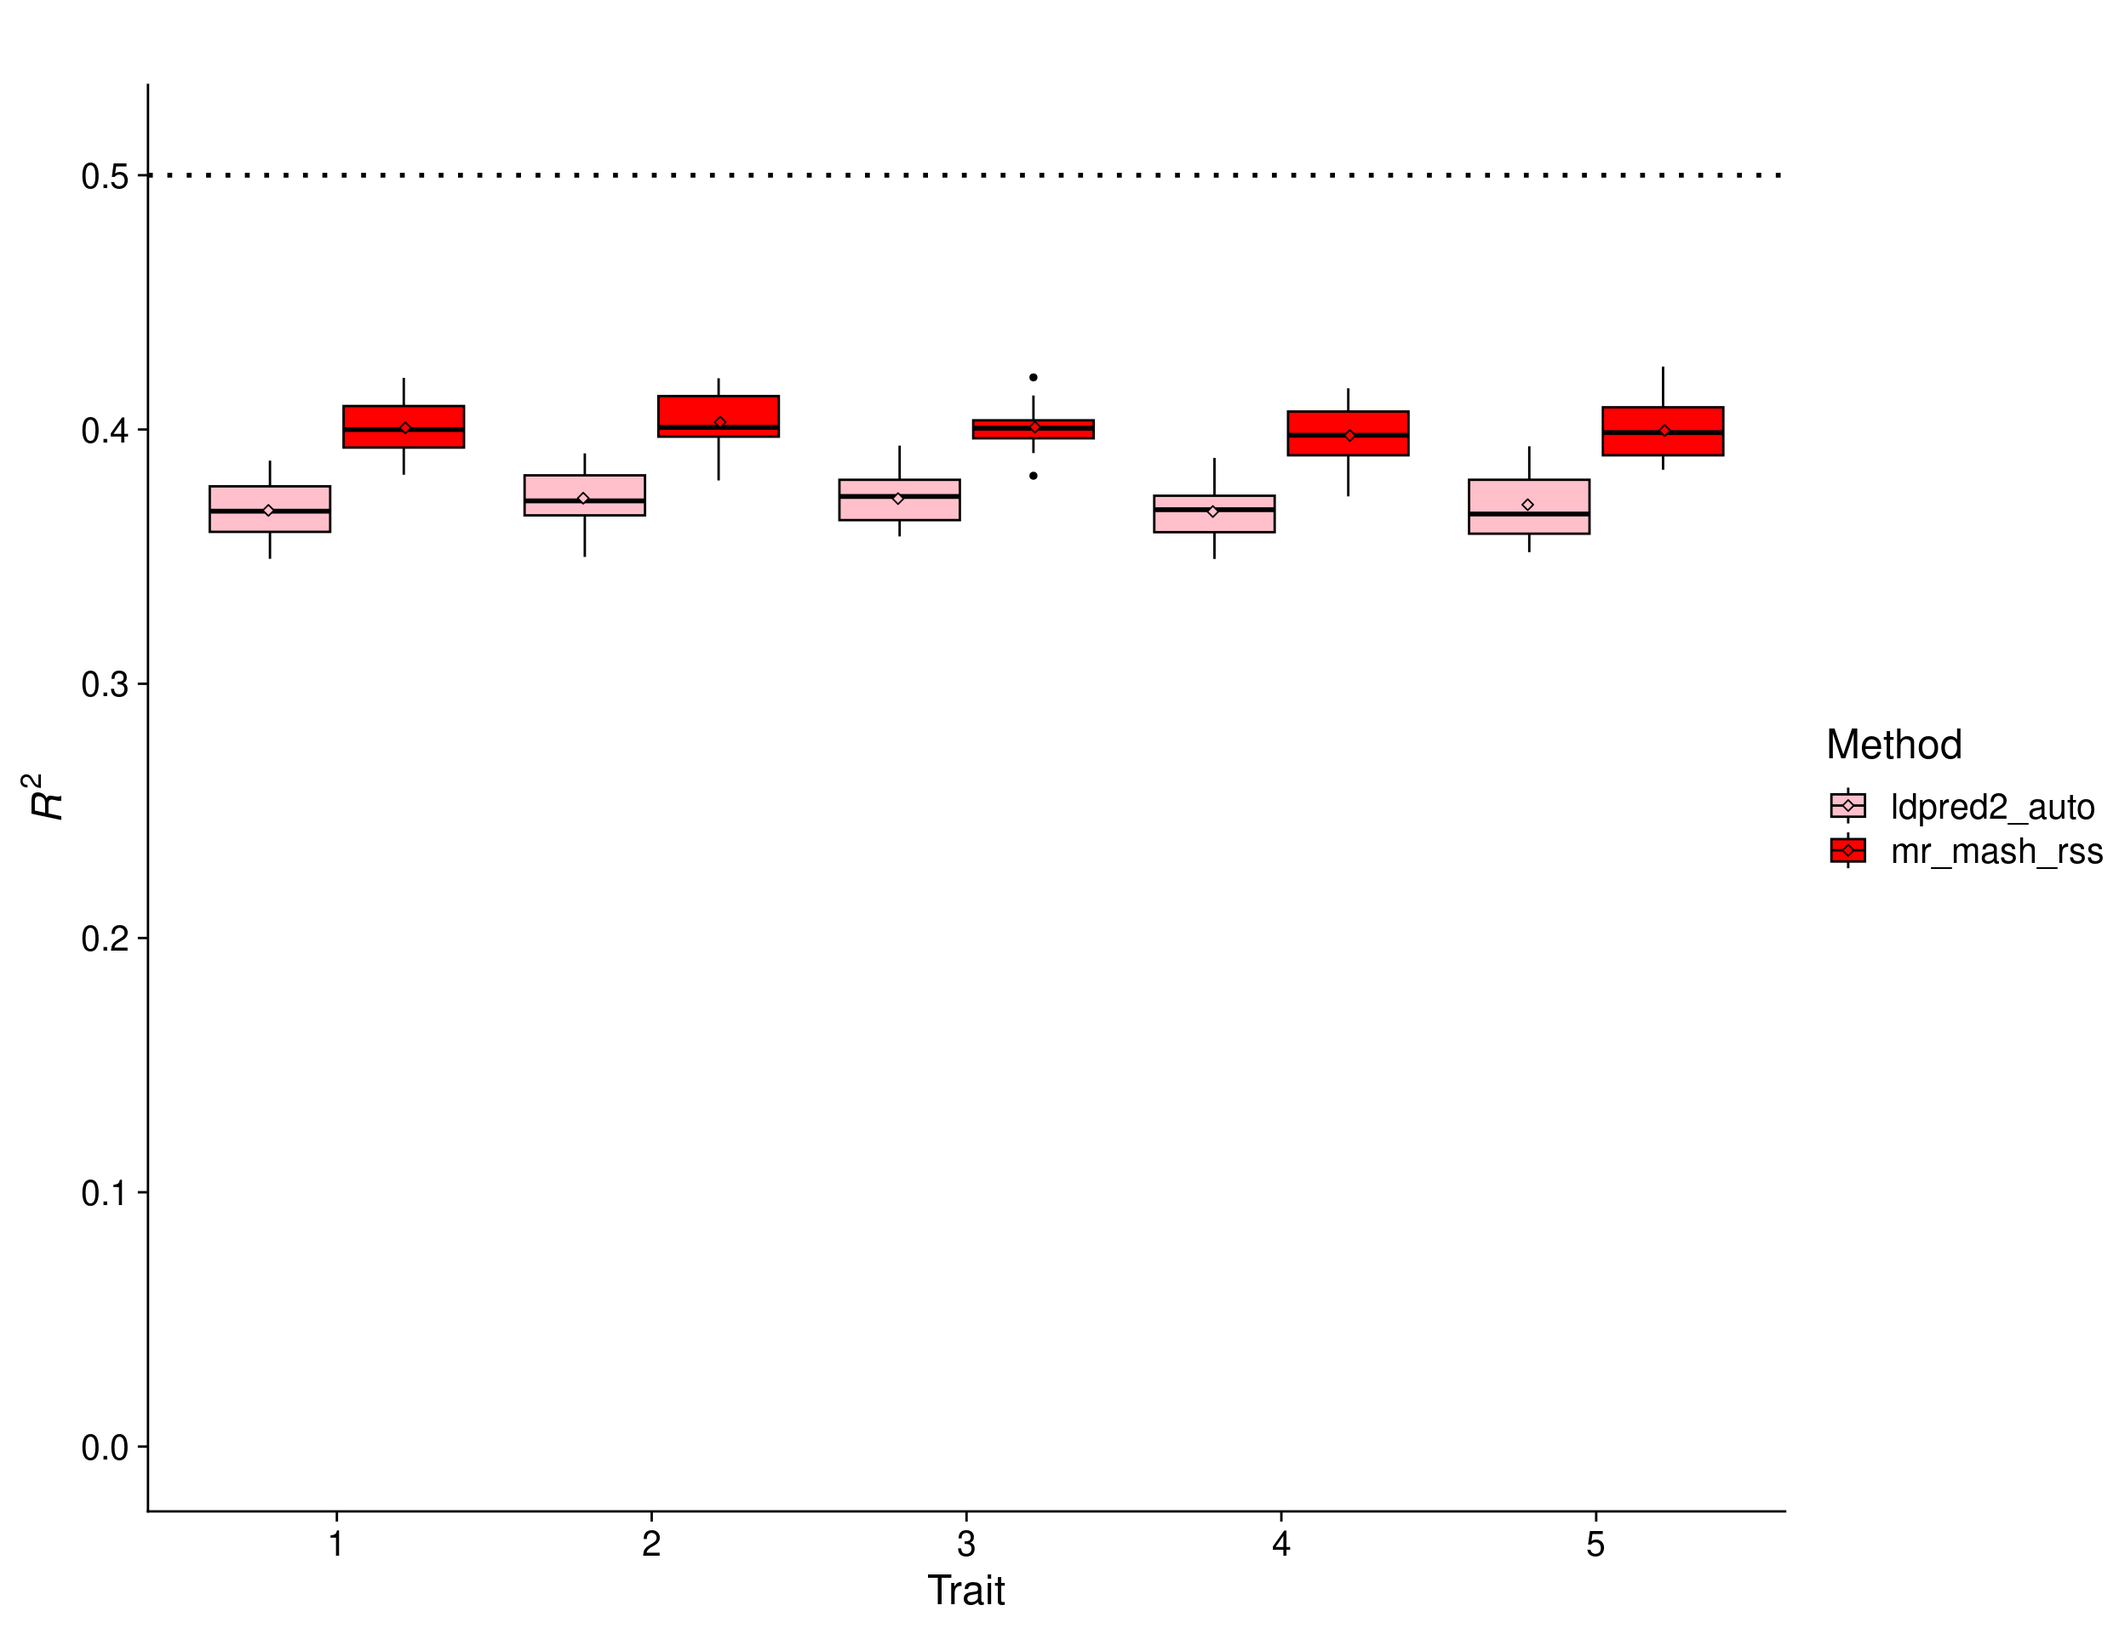
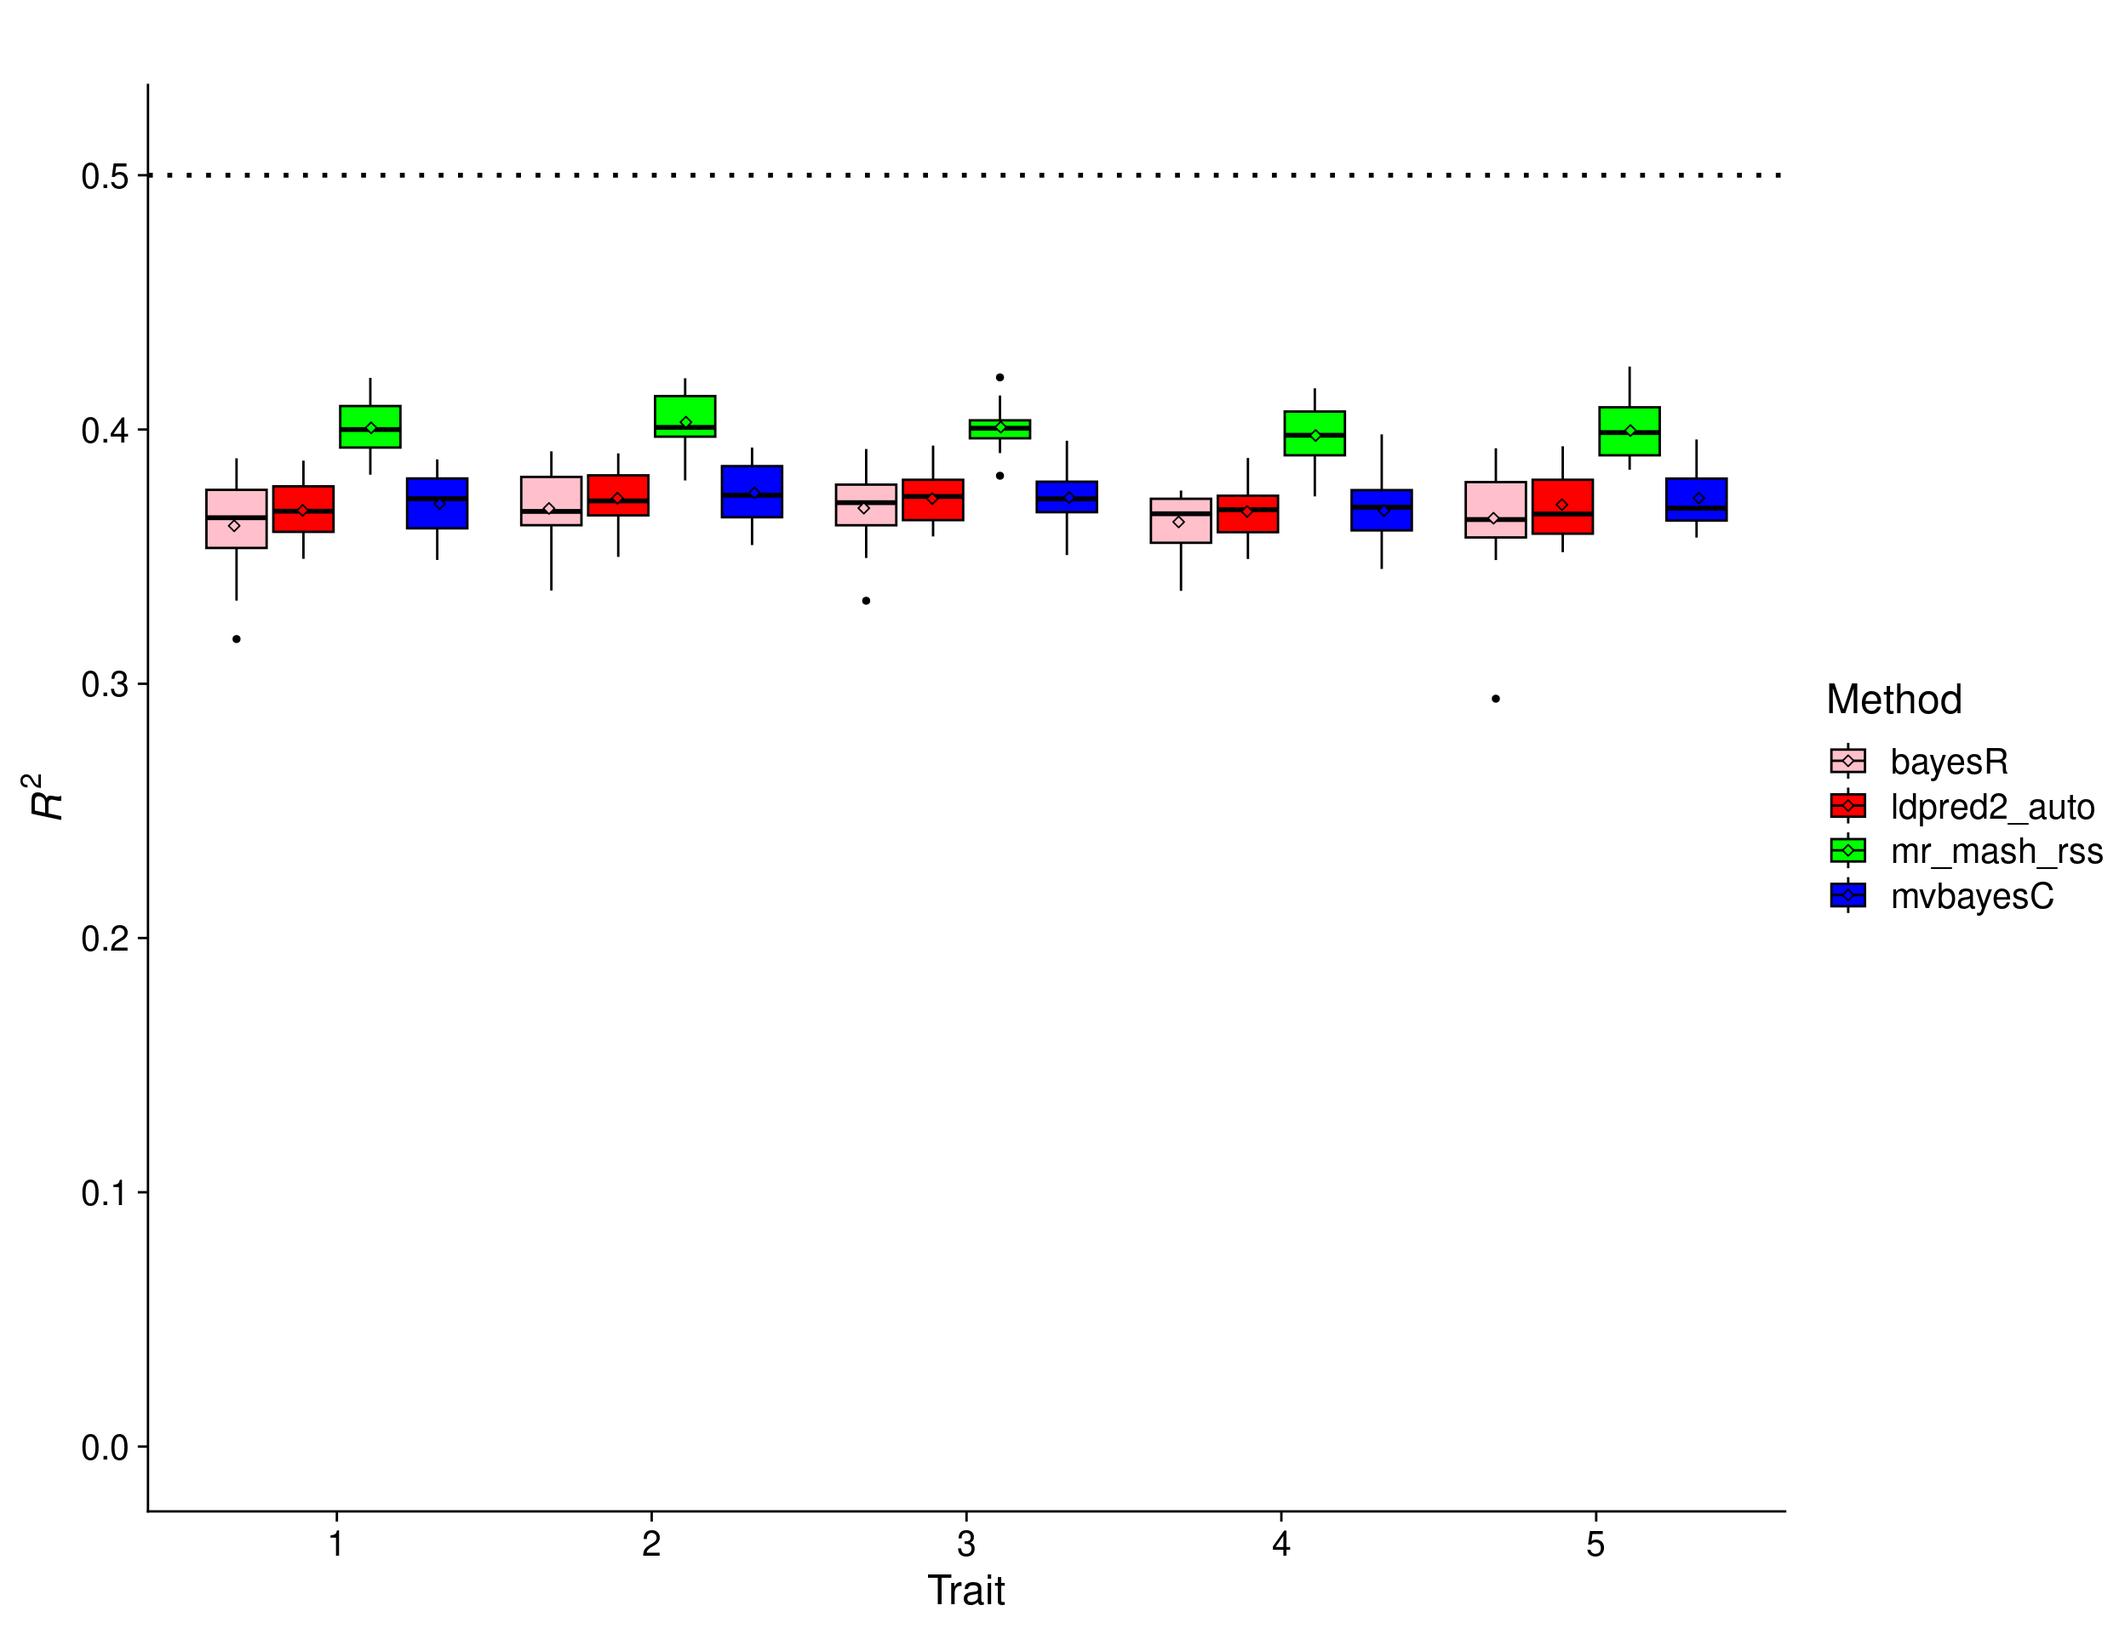
Build site.

diff --git a/docs/ukb_sim_results.html b/docs/ukb_sim_results.html
@@ -11,7 +11,7 @@
 
 <meta name="author" content="Fabio Morgante &amp; Deborah Kunkel" />
 
-<meta name="date" content="2023-11-02" />
+<meta name="date" content="2023-11-07" />
 
 <title>Simulations with UK Biobank genotypes and different effect structure across traits</title>
 
@@ -374,7 +374,7 @@ div.tocify {
 <h1 class="title toc-ignore">Simulations with UK Biobank genotypes and
 different effect structure across traits</h1>
 <h4 class="author">Fabio Morgante &amp; Deborah Kunkel</h4>
-<h4 class="date">November 02, 2023</h4>
+<h4 class="date">November 07, 2023</h4>
 
 </div>
 
@@ -403,7 +403,7 @@ class="glyphicon glyphicon-ok text-success" aria-hidden="true"></span>
 <div class="tab-content">
 <div id="summary" class="tab-pane fade in active">
 <p>
-<strong>Last updated:</strong> 2023-11-02
+<strong>Last updated:</strong> 2023-11-07
 </p>
 <p>
 <strong>Checks:</strong> <span
@@ -534,15 +534,15 @@ project makes it easier to run your code on other machines.</p>
 <div class="panel panel-default">
 <div class="panel-heading">
 <p class="panel-title">
-<a data-toggle="collapse" data-parent="#workflowr-checks" href="#strongRepositoryversionstrongahrefhttpsgithubcommorgantelabmrmashrssanalysistree61b27b107ed8cf53e91dcadd435f31d4926c826ctargetblank61b27b1a">
+<a data-toggle="collapse" data-parent="#workflowr-checks" href="#strongRepositoryversionstrongahrefhttpsgithubcommorgantelabmrmashrssanalysistree10b51bd8130f4a3188919c1590f031d4bf880d6atargetblank10b51bda">
 <span class="glyphicon glyphicon-ok text-success"
 aria-hidden="true"></span> <strong>Repository version:</strong>
-<a href="https://github.com/morgantelab/mr_mash_rss_analysis/tree/61b27b107ed8cf53e91dcadd435f31d4926c826c" target="_blank">61b27b1</a>
+<a href="https://github.com/morgantelab/mr_mash_rss_analysis/tree/10b51bd8130f4a3188919c1590f031d4bf880d6a" target="_blank">10b51bd</a>
 </a>
 </p>
 </div>
 <div
[2 lines of base64/hex data omitted]
 class="panel-collapse collapse">
 <div class="panel-body">
 <p>
@@ -552,7 +552,7 @@ reproducibility.
 </p>
 <p>
 The results in this page were generated with repository version
-<a href="https://github.com/morgantelab/mr_mash_rss_analysis/tree/61b27b107ed8cf53e91dcadd435f31d4926c826c" target="_blank">61b27b1</a>.
+<a href="https://github.com/morgantelab/mr_mash_rss_analysis/tree/10b51bd8130f4a3188919c1590f031d4bf880d6a" target="_blank">10b51bd</a>.
 See the <em>Past versions</em> tab to see a history of the changes made
 to the R Markdown and HTML files.
 </p>
@@ -579,20 +579,22 @@ Untracked files:
     Untracked:  code/compute_sumstats_test_bc_ukb.R
     Untracked:  code/fit_kriging_rss_ukb.R
     Untracked:  code/fit_mrmashrss_test_ukb.R
+    Untracked:  code/fit_qgg_smvbayes_ukb.R
     Untracked:  code/merge_sumstats_all_chr_ukb.R
     Untracked:  code/split_effects_by_chr_imp_ukb.R
     Untracked:  scripts/11_run_fit_mrmashrss_by_chr_V_all_chr_bc_ukb.sbatch
     Untracked:  scripts/11_run_fit_mrmashrss_sparse_LD_mvsusie_paper_prior_by_chr_bc_ukb.sbatch
-    Untracked:  scripts/11_run_fit_mrmashrss_test_by_chr_V_all_chr_bc_ukb.sbatch
     Untracked:  scripts/12_run_compute_pred_accuracy_mrmashrss_sparse_LD_mvsusie_paper_prior_bc_ukb.sbatch
-    Untracked:  scripts/12_run_fit_mrmashrss_sparse_LD_V_all_chr_init_by_chr_bc_ukb.sbatch
     Untracked:  scripts/3_run_compute_sumstats_by_chr_and_fold_test_bc_ukb.sbatch
     Untracked:  scripts/run_adjust_LD_test.sbatch
     Untracked:  scripts/run_fit_kriging_rss_by_chr_and_trait_bc_ukb.sbatch
 
 Unstaged changes:
     Modified:   analysis/ukb_bc_results.Rmd
-    Modified:   code/compute_prediction_accuracy_bc_ukb.R
+    Modified:   code/compute_prediction_accuracy_ukb.R
+    Modified:   code/fit_qgg_sbayes_ukb.R
+    Modified:   ukb_sim_equal_effects_indep_resid.yaml
+    Modified:   ukb_sim_snakefile
     Modified:   ukb_sim_snakemake_submitter.sh
 
 </code></pre>
@@ -639,6 +641,40 @@ Message
 </tr>
 </thead>
 <tbody>
+<tr>
+<td>
+Rmd
+</td>
+<td>
+<a href="https://github.com/morgantelab/mr_mash_rss_analysis/blob/10b51bd8130f4a3188919c1590f031d4bf880d6a/analysis/ukb_sim_results.Rmd" target="_blank">10b51bd</a>
+</td>
+<td>
+fmorgante
+</td>
+<td>
+2023-11-07
+</td>
+<td>
+Add bayesR and mvbayesC results for equal effects scenario
+</td>
+</tr>
+<tr>
+<td>
+html
+</td>
+<td>
+<a href="https://rawcdn.githack.com/morgantelab/mr_mash_rss_analysis/5e2df385e1d527c3db2f99e4481d5f8806469f24/docs/ukb_sim_results.html" target="_blank">5e2df38</a>
+</td>
+<td>
+fmorgante
+</td>
+<td>
+2023-11-02
+</td>
+<td>
+Build site.
+</td>
+</tr>
 <tr>
 <td>
 Rmd
@@ -1651,7 +1687,7 @@ per-trait variance of 1 and a correlation across traits of 1. This
 implies that the effects of the causal variants are equal across
 responses.</p>
 <pre class="r"><code>scenarioz &lt;- &quot;equal_effects_indep_resid&quot;
-methodz &lt;- c(&quot;mr_mash_rss&quot;, &quot;ldpred2_auto&quot;)#, &quot;ldpred2_auto_gwide&quot;, &quot;bayesR&quot;)
+methodz &lt;- c(&quot;mr_mash_rss&quot;, &quot;mvbayesC&quot;, &quot;ldpred2_auto&quot;, &quot;bayesR&quot;)
 
 i &lt;- 0
 
@@ -1851,7 +1887,7 @@ p_mostly_null &lt;- ggplot(res, aes(x = trait, y = score, fill = method)) +
                position = position_dodge2(width = 0.87,   
                                           preserve = &quot;single&quot;)) +
   ylim(0.0, 0.51) +
-  scale_fill_manual(values = c(&quot;pink&quot;, &quot;red&quot;, &quot;blue&quot;)) +
+  scale_fill_manual(values = c(&quot;pink&quot;, &quot;red&quot;, &quot;green&quot;, &quot;blue&quot;)) +
   labs(x = &quot;Trait&quot;, y = expression(italic(R)^2), fill=&quot;Method&quot;, title=&quot;&quot;) +
   geom_hline(yintercept=0.5, linetype=&quot;dotted&quot;, linewidth=1, color = &quot;black&quot;) +
   theme_cowplot(font_size = 18)
@@ -2021,7 +2057,7 @@ p_blocks_shared &lt;- ggplot(res, aes(x = trait, y = score, fill = method)) +
                position = position_dodge2(width = 0.87,   
                                           preserve = &quot;single&quot;)) +
   ylim(0, 0.51) +
-  scale_fill_manual(values = c(&quot;pink&quot;, &quot;red&quot;, &quot;blue&quot;)) +
+  scale_fill_manual(values = c(&quot;pink&quot;, &quot;red&quot;, &quot;green&quot;, &quot;blue&quot;)) +
   labs(x = &quot;Trait&quot;, y = expression(italic(R)^2), fill=&quot;Method&quot;, title=&quot;&quot;) +
   geom_hline(yintercept=0.5, linetype=&quot;dotted&quot;, linewidth=1, color = &quot;black&quot;) +
   geom_hline(yintercept=0.3, linetype=&quot;dashed&quot;, linewidth=1, color = &quot;black&quot;) +
@@ -2210,7 +2246,7 @@ p_methods_shared_lowpve &lt;- ggplot(res, aes(x = trait, y = score, fill = metho
                position = position_dodge2(width = 0.87,   
                                           preserve = &quot;single&quot;)) +
   ylim(0, 0.2) +
-  scale_fill_manual(values = c(&quot;pink&quot;, &quot;red&quot;, &quot;blue&quot;)) +
+  scale_fill_manual(values = c(&quot;pink&quot;, &quot;red&quot;, &quot;green&quot;, &quot;blue&quot;)) +
   labs(x = &quot;Trait&quot;, y = expression(italic(R)^2), fill=&quot;Method&quot;, title=&quot;&quot;) +
   geom_hline(yintercept=0.2, linetype=&quot;dotted&quot;, linewidth=1, color = &quot;black&quot;) +
   theme_cowplot(font_size = 18)
@@ -2239,6 +2275,17 @@ Date
 </tr>
 </thead>
 <tbody>
+<tr>
+<td>
+<a href="https://github.com/morgantelab/mr_mash_rss_analysis/blob/5e2df385e1d527c3db2f99e4481d5f8806469f24/docs/figure/ukb_sim_results.Rmd/equal effects low pve-1.png" target="_blank">5e2df38</a>
+</td>
+<td>
+fmorgante
+</td>
+<td>
+2023-11-02
+</td>
+</tr>
 <tr>
 <td>
 <a href="https://github.com/morgantelab/mr_mash_rss_analysis/blob/e6023d5ca150e0f96edadb919a6187cd1c4c8026/docs/figure/ukb_sim_results.Rmd/equal effects low pve-1.png" target="_blank">e6023d5</a>
@@ -2343,7 +2390,7 @@ p_methods_shared_lowpve &lt;- ggplot(res, aes(x = trait, y = score, fill = metho
                position = position_dodge2(width = 0.87,   
                                           preserve = &quot;single&quot;)) +
   ylim(0, 0.5) +
-  scale_fill_manual(values = c(&quot;pink&quot;, &quot;red&quot;, &quot;blue&quot;)) +
+  scale_fill_manual(values = c(&quot;pink&quot;, &quot;red&quot;, &quot;green&quot;, &quot;blue&quot;)) +
   labs(x = &quot;Trait&quot;, y = expression(italic(R)^2), fill=&quot;Method&quot;, title=&quot;&quot;) +
   geom_hline(yintercept=0.5, linetype=&quot;dotted&quot;, linewidth=1, color = &quot;black&quot;) +
   theme_cowplot(font_size = 18)
@@ -2372,6 +2419,17 @@ Date
 </tr>
 </thead>
 <tbody>
+<tr>
+<td>
+<a href="https://github.com/morgantelab/mr_mash_rss_analysis/blob/5e2df385e1d527c3db2f99e4481d5f8806469f24/docs/figure/ukb_sim_results.Rmd/equal effects poly filt-1.png" target="_blank">5e2df38</a>
+</td>
+<td>
+fmorgante
+</td>
+<td>
+2023-11-02
+</td>
+</tr>
 <tr>
 <td>
 <a href="https://github.com/morgantelab/mr_mash_rss_analysis/blob/70e6d4a8ceb31f3d5b874cd83d7d9e93c21e425d/docs/figure/ukb_sim_results.Rmd/equal effects poly filt-1.png" target="_blank">70e6d4a</a>
@@ -2455,7 +2513,7 @@ p_methods_shared_10traits &lt;- ggplot(res, aes(x = trait, y = score, fill = met
                position = position_dodge2(width = 0.87,   
                                           preserve = &quot;single&quot;)) +
   ylim(0, 0.51) +
-  scale_fill_manual(values = c(&quot;pink&quot;, &quot;red&quot;, &quot;blue&quot;)) +
+  scale_fill_manual(values = c(&quot;pink&quot;, &quot;red&quot;, &quot;green&quot;, &quot;blue&quot;)) +
   labs(x = &quot;Trait&quot;, y = expression(italic(R)^2), fill=&quot;Method&quot;, title=&quot;&quot;) +
   geom_hline(yintercept=0.5, linetype=&quot;dotted&quot;, linewidth=1, color = &quot;black&quot;) +
   theme_cowplot(font_size = 18)
@@ -2484,6 +2542,17 @@ Date
 </tr>
 </thead>
 <tbody>
+<tr>
+<td>
+<a href="https://github.com/morgantelab/mr_mash_rss_analysis/blob/5e2df385e1d527c3db2f99e4481d5f8806469f24/docs/figure/ukb_sim_results.Rmd/equal effects 10 traits-1.png" target="_blank">5e2df38</a>
+</td>
+<td>
+fmorgante
+</td>
+<td>
+2023-11-02
+</td>
+</tr>
 <tr>
 <td>
 <a href="https://github.com/morgantelab/mr_mash_rss_analysis/blob/d850539d7dd55aa0b81c7e271d5b1842e50f2f2c/docs/figure/ukb_sim_results.Rmd/equal effects 10 traits-1.png" target="_blank">d850539</a>

diff --git a/docs/index.html b/docs/index.html
@@ -322,7 +322,7 @@ class="glyphicon glyphicon-ok text-success" aria-hidden="true"></span>
 <div class="tab-content">
 <div id="summary" class="tab-pane fade in active">
 <p>
-<strong>Last updated:</strong> 2023-10-26
+<strong>Last updated:</strong> 2023-11-07
 </p>
 <p>
 <strong>Checks:</strong> <span
@@ -369,15 +369,15 @@ results.</p>
 <div class="panel panel-default">
 <div class="panel-heading">
 <p class="panel-title">
-<a data-toggle="collapse" data-parent="#workflowr-checks" href="#strongRepositoryversionstrongahrefhttpsgithubcommorgantelabmrmashrssanalysistreefebf669ca5f7d522297abf9c8dec9f75f7ee300atargetblankfebf669a">
+<a data-toggle="collapse" data-parent="#workflowr-checks" href="#strongRepositoryversionstrongahrefhttpsgithubcommorgantelabmrmashrssanalysistree10b51bd8130f4a3188919c1590f031d4bf880d6atargetblank10b51bda">
 <span class="glyphicon glyphicon-ok text-success"
 aria-hidden="true"></span> <strong>Repository version:</strong>
-<a href="https://github.com/morgantelab/mr_mash_rss_analysis/tree/febf669ca5f7d522297abf9c8dec9f75f7ee300a" target="_blank">febf669</a>
+<a href="https://github.com/morgantelab/mr_mash_rss_analysis/tree/10b51bd8130f4a3188919c1590f031d4bf880d6a" target="_blank">10b51bd</a>
 </a>
 </p>
 </div>
 <div
[2 lines of base64/hex data omitted]
 class="panel-collapse collapse">
 <div class="panel-body">
 <p>
@@ -387,7 +387,7 @@ reproducibility.
 </p>
 <p>
 The results in this page were generated with repository version
-<a href="https://github.com/morgantelab/mr_mash_rss_analysis/tree/febf669ca5f7d522297abf9c8dec9f75f7ee300a" target="_blank">febf669</a>.
+<a href="https://github.com/morgantelab/mr_mash_rss_analysis/tree/10b51bd8130f4a3188919c1590f031d4bf880d6a" target="_blank">10b51bd</a>.
 See the <em>Past versions</em> tab to see a history of the changes made
 to the R Markdown and HTML files.
 </p>
@@ -414,19 +414,22 @@ Untracked files:
     Untracked:  code/compute_sumstats_test_bc_ukb.R
     Untracked:  code/fit_kriging_rss_ukb.R
     Untracked:  code/fit_mrmashrss_test_ukb.R
+    Untracked:  code/fit_qgg_smvbayes_ukb.R
     Untracked:  code/merge_sumstats_all_chr_ukb.R
     Untracked:  code/split_effects_by_chr_imp_ukb.R
     Untracked:  scripts/11_run_fit_mrmashrss_by_chr_V_all_chr_bc_ukb.sbatch
-    Untracked:  scripts/11_run_fit_mrmashrss_sparse_LD_V_all_chr_by_chr_bc_ukb.sbatch
     Untracked:  scripts/11_run_fit_mrmashrss_sparse_LD_mvsusie_paper_prior_by_chr_bc_ukb.sbatch
-    Untracked:  scripts/11_run_fit_mrmashrss_test_by_chr_V_all_chr_bc_ukb.sbatch
-    Untracked:  scripts/12_run_compute_pred_accuracy_mrmashrss_sparse_LD_V_all_chr_bc_ukb.sbatch
     Untracked:  scripts/12_run_compute_pred_accuracy_mrmashrss_sparse_LD_mvsusie_paper_prior_bc_ukb.sbatch
     Untracked:  scripts/3_run_compute_sumstats_by_chr_and_fold_test_bc_ukb.sbatch
     Untracked:  scripts/run_adjust_LD_test.sbatch
     Untracked:  scripts/run_fit_kriging_rss_by_chr_and_trait_bc_ukb.sbatch
 
 Unstaged changes:
+    Modified:   analysis/ukb_bc_results.Rmd
+    Modified:   code/compute_prediction_accuracy_ukb.R
+    Modified:   code/fit_qgg_sbayes_ukb.R
+    Modified:   ukb_sim_equal_effects_indep_resid.yaml
+    Modified:   ukb_sim_snakefile
     Modified:   ukb_sim_snakemake_submitter.sh
 
 </code></pre>
@@ -472,6 +475,23 @@ Message
 </tr>
 </thead>
 <tbody>
+<tr>
+<td>
+html
+</td>
+<td>
+<a href="https://rawcdn.githack.com/morgantelab/mr_mash_rss_analysis/7da29c7ad49795d31e3d9e1fe0228c5541c98cb9/docs/index.html" target="_blank">7da29c7</a>
+</td>
+<td>
+fmorgante
+</td>
+<td>
+2023-10-26
+</td>
+<td>
+Build site.
+</td>
+</tr>
 <tr>
 <td>
 html
